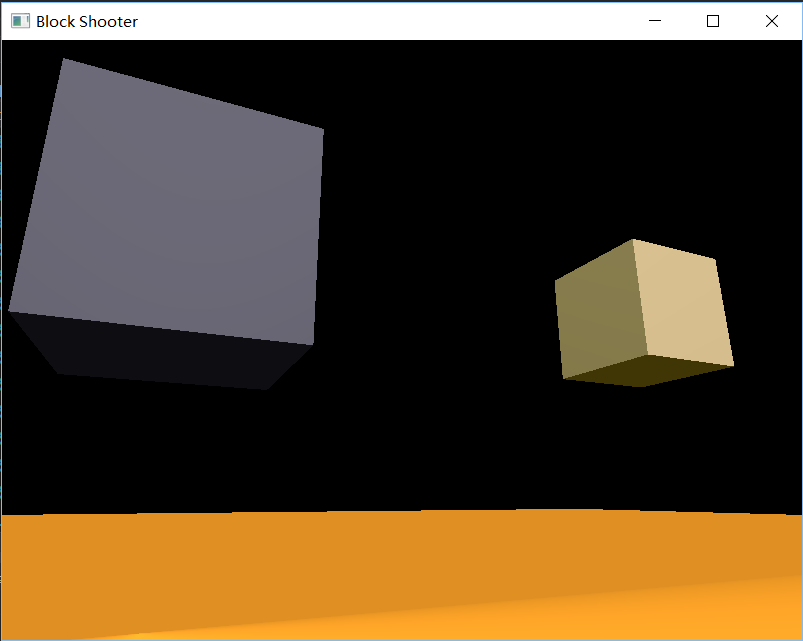
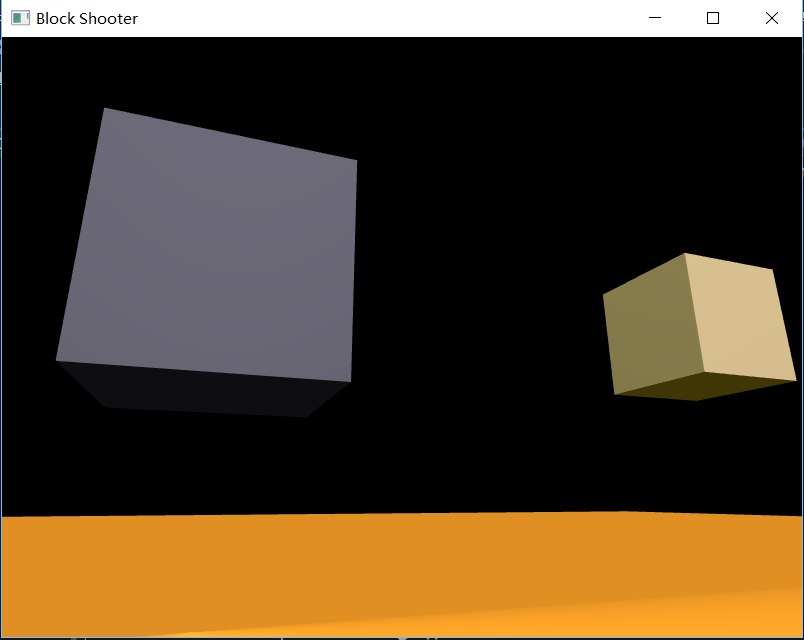
Add MSAA Support

Changed region(s): [[0.0, 0.0, 1.0, 1.0], [0.0, 0.0938, 0.467, 0.5938]]

diff --git a/CrystalEngine/Crystal/include/app/app.h b/CrystalEngine/Crystal/include/app/app.h
@@ -51,6 +51,9 @@ public:
 	int screenHeight;
 	//Screen ratio
 	float ratio;
+	//Graphics settings
+	/*The sample number of each fragment for MASS effect. Default is 0. Set a value larger than 0 to enable MSAA*/
+	unsigned MSAASampleNum;
 	//Camera object
 	CameraPtr camera;
 	//Directional lights
@@ -76,7 +79,7 @@ public:
 		float worldMaxX = DEFAULT_WORLD_SIZE,
 		float worldMaxY = DEFAULT_WORLD_SIZE,
 		float worldMaxZ = DEFAULT_WORLD_SIZE):
-		screenWidth(width),screenHeight(height),pause(false)
+		screenWidth(width),screenHeight(height),pause(false),MSAASampleNum(0)
 	{		
 		runPhysics = true;
 		ratio = (float)width /(float)height;
@@ -94,6 +97,23 @@ public:
 	static crystal::Vector3 getVector3(const glm::vec3& glmVec);
 
 	/**
+	 * Set some graphic settings before creating gl window objcet
+	 * e.g. Set msaa sample number
+	 */
+	virtual void initGraphicSettings();
+
+	/**
+	* Sets up the graphics, and allows the application to acquire
+	* graphical resources. Guaranteed to be called after OpenGL is
+	* set up.
+	*
+	* @param window The window object to manipulate
+	*
+	* The default implementation sets up a basic view
+	*/
+	virtual void initGraphics(GLFWwindow* window);
+
+	/**
 	* Called before main loop starts
 	* Used to init scenes
 	* The default implementation does nothing
@@ -106,17 +126,6 @@ public:
 	* The default implementation returns a generic title.
 	*/
 	virtual const char* getTitle();
-
-	/**
-	* Sets up the graphics, and allows the application to acquire
-	* graphical resources. Guaranteed to be called after OpenGL is
-	* set up.
-	*
-	* @param window The window object to manipulate
-	*
-	* The default implementation sets up a basic view
-	*/
-	virtual void initGraphics(GLFWwindow* window);
 
 	/**
 	* Called each frame to display the current scene. The common code

diff --git a/CrystalEngine/Crystal/apps/main.cpp b/CrystalEngine/Crystal/apps/main.cpp
@@ -100,6 +100,14 @@ int main()
 	glfwWindowHint(GLFW_CONTEXT_VERSION_MINOR, 3);
 	glfwWindowHint(GLFW_OPENGL_PROFILE, GLFW_OPENGL_CORE_PROFILE);
 	
+	application->initGraphicSettings();
+
+	//Check MSAA settings
+	if (application->MSAASampleNum > 0)
+	{
+		glfwWindowHint(GLFW_SAMPLES, application->MSAASampleNum);
+	}
+	
 	GLFWwindow* window = glfwCreateWindow(application->screenWidth, application->screenHeight, 
 		application->getTitle(), nullptr, nullptr);
 
@@ -121,11 +129,13 @@ int main()
 		std::cout << "Failed to initialize GLEW" << std::endl;
 	}
 	glfwMakeContextCurrent(window);
-	// Setup OpenGL options
-	glEnable(GL_DEPTH_TEST);
 
 	//Call application's initialization method after setup
 	application->initGraphics(window);
+
+	// Setup OpenGL options
+	glEnable(GL_DEPTH_TEST);
+	glEnable(GL_MULTISAMPLE);
 
 	//Add callback methods
 	glfwSetKeyCallback(window, key_callback);

diff --git a/CrystalEngine/Crystal/apps/blockShooter.cpp b/CrystalEngine/Crystal/apps/blockShooter.cpp
@@ -22,6 +22,8 @@ private:
 	float gravity = 9.8f;
 	float jumpTime;
 	float cameraYPosition;
+
+	unsigned sampleNum = 4;
 public:
 
 	/* This method is called before the game loop starts. It is used to do some initing work */
@@ -88,6 +90,12 @@ public:
 		return "Block Shooter";
 	}
 
+	void initGraphicSettings()
+	{
+		//Some settings to take effect before creating gl window 
+		MSAASampleNum = sampleNum;
+	}
+
 	//This method is called before game loop starts
 	void initGraphics(GLFWwindow* window)
 	{
@@ -95,7 +103,10 @@ public:
 		glfwWindowHint(GLFW_RESIZABLE, GL_FALSE);//No resize
 		glfwSetInputMode(window, GLFW_CURSOR, GLFW_CURSOR_DISABLED);//Hide cursor
 
-																	//Call parent methods to finish initialization
+		//Set MSAA sample number
+		MSAASampleNum = sampleNum;
+
+		//Call parent methods to finish initialization
 		Application::initGraphics(window);
 	}
 

diff --git a/CrystalEngine/Crystal/apps/app.cpp b/CrystalEngine/Crystal/apps/app.cpp
@@ -23,6 +23,8 @@ crystal::Vector3 Application::getVector3(const glm::vec3& glmVec)
 	return Vector3(glmVec.x, glmVec.y, glmVec.z);
 }
 
+void Application::initGraphicSettings() {}
+
 void Application::start(){}
 
 void Application::display(){}
